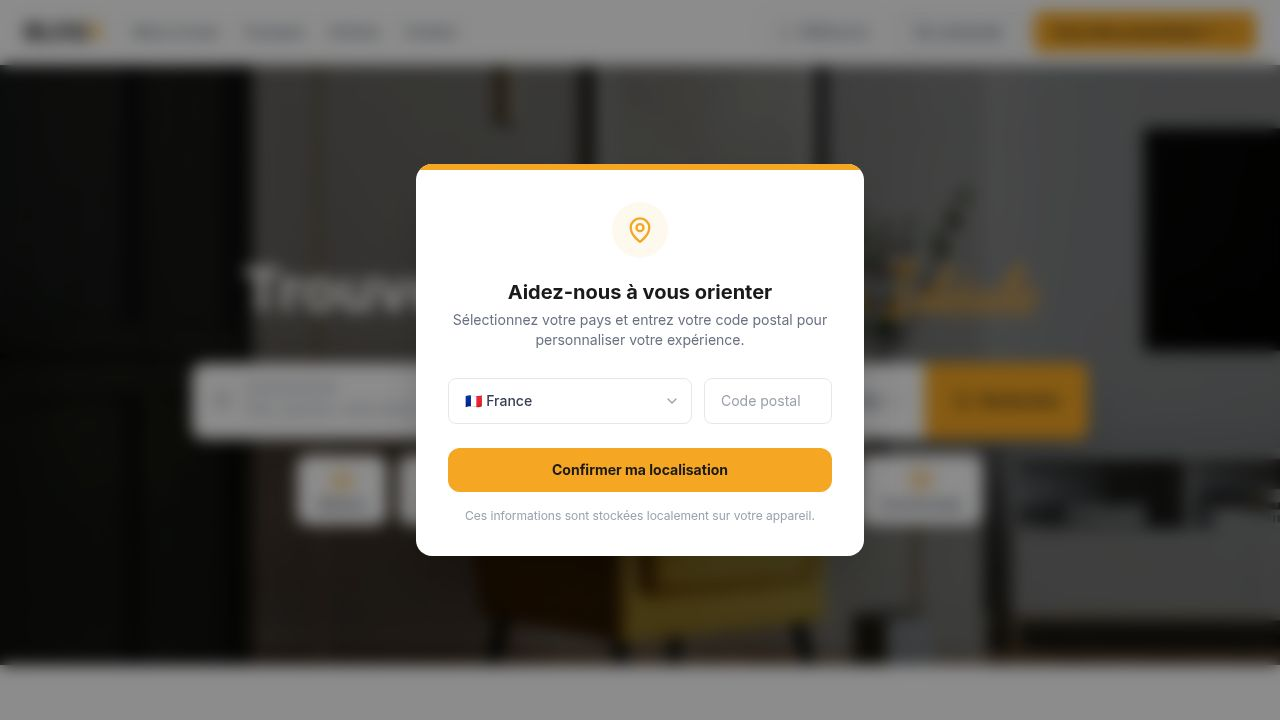
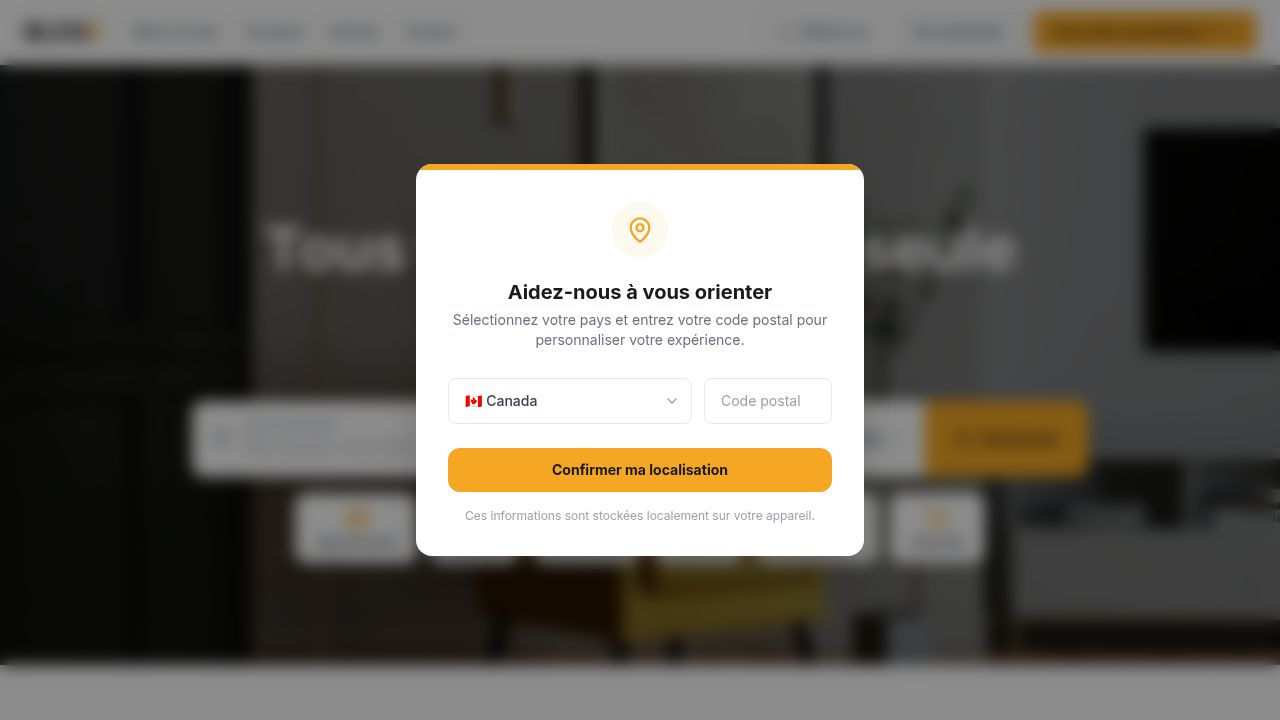
Update property listings and descriptions to include industrial spaces
Adjusts property types, descriptions, and pricing in home and properties pages to accommodate industrial listings, enhancing platform relevance for real estate management.

Replit-Commit-Author: Agent
Replit-Commit-Session-Id: 8a6be745-43e4-43f6-b475-57bb0976353f
Replit-Commit-Checkpoint-Type: full_checkpoint
Replit-Commit-Event-Id: eca5a1d6-f8a7-4e6f-85c0-c1a37d17f996
Replit-Commit-Screenshot-Url: https://storage.googleapis.com/screenshot-production-us-central1/71b2e12b-bec2-4e35-a5ab-8f3f888a31c1/8a6be745-43e4-43f6-b475-57bb0976353f/4jx9YAq
Replit-Helium-Checkpoint-Created: true

Changed region(s): [[0.125, 0.4889, 0.875, 0.7944], [0.1875, 0.3056, 0.3438, 0.4583], [0.6562, 0.3056, 0.8125, 0.4583]]

diff --git a/artifacts/bloq5/src/pages/home.tsx b/artifacts/bloq5/src/pages/home.tsx
@@ -7,7 +7,7 @@ import {
   CheckCircle, FileText, PenLine, ClipboardList, ChevronRight,
   SlidersHorizontal, Home, Building2, Users, Briefcase, Store,
   X, Wifi, Zap, Flame, Droplets, Wind, Car, PawPrint,
-  LayoutGrid, ChevronUp
+  LayoutGrid, ChevronUp, Factory
 } from "lucide-react";
 
 const YELLOW = "#F5A623";
@@ -32,44 +32,44 @@ type StaticProp = { title: string; city: string; price: number; bedrooms: number
 
 const STATIC_PROPS_MAP: Record<string, StaticProp[]> = {
   FR: [
-    { title: "Maison familiale – 5 pièces",        city: "Bordeaux",    price: 2100, bedrooms: 4, bathrooms: 2, area: 140, img: "https://images.unsplash.com/photo-1564013799919-ab600027ffc6?w=500&q=80" },
-    { title: "Appartement lumineux – centre-ville", city: "Lyon",        price: 1200, bedrooms: 2, bathrooms: 1, area: 65,  img: "https://images.unsplash.com/photo-1502672260266-1c1ef2d93688?w=500&q=80" },
-    { title: "Studio meublé – proche campus",       city: "Toulouse",    price: 580,  bedrooms: 1, bathrooms: 1, area: 24,  img: "https://images.unsplash.com/photo-1522708323590-d24dbb6b0267?w=500&q=80" },
-    { title: "Colocation – chambre privée",         city: "Paris 11e",   price: 750,  bedrooms: 1, bathrooms: 1, area: 18,  img: "https://images.unsplash.com/photo-1484101403633-562f891dc89a?w=500&q=80" },
-    { title: "Bureau open-space – La Défense",      city: "La Défense",  price: 4500, bedrooms: 0, bathrooms: 2, area: 200, img: "https://images.unsplash.com/photo-1497366216548-37526070297c?w=500&q=80" },
-    { title: "Local commercial – rez-de-chaussée",  city: "Nice",        price: 1800, bedrooms: 0, bathrooms: 1, area: 80,  img: "https://images.unsplash.com/photo-1441986300917-64674bd600d8?w=500&q=80" },
+    { title: "Appartement T3 – centre historique",  city: "Lyon",        price: 1350, bedrooms: 2, bathrooms: 1, area: 68,  img: "https://images.unsplash.com/photo-1502672260266-1c1ef2d93688?w=500&q=80" },
+    { title: "Maison individuelle – jardin privé",  city: "Bordeaux",    price: 2200, bedrooms: 4, bathrooms: 2, area: 145, img: "https://images.unsplash.com/photo-1564013799919-ab600027ffc6?w=500&q=80" },
+    { title: "Bureau clé en main – 12 postes",      city: "Paris",       price: 5200, bedrooms: 0, bathrooms: 2, area: 210, img: "https://images.unsplash.com/photo-1497366216548-37526070297c?w=500&q=80" },
+    { title: "Local commercial – pied d'immeuble",  city: "Toulouse",    price: 1900, bedrooms: 0, bathrooms: 1, area: 85,  img: "https://images.unsplash.com/photo-1441986300917-64674bd600d8?w=500&q=80" },
+    { title: "Entrepôt logistique – accès A62",     city: "Bordeaux",    price: 3800, bedrooms: 0, bathrooms: 2, area: 600, img: "https://images.unsplash.com/photo-1586528116311-ad8dd3c8310d?w=500&q=80" },
+    { title: "Colocation – 4 chambres meublées",    city: "Nice",        price: 680,  bedrooms: 1, bathrooms: 1, area: 22,  img: "https://images.unsplash.com/photo-1484101403633-562f891dc89a?w=500&q=80" },
   ],
   CA: [
-    { title: "Condo moderne – Plateau Mont-Royal",  city: "Montréal",    price: 2400, bedrooms: 2, bathrooms: 1, area: 70,  img: "https://images.unsplash.com/photo-1502672260266-1c1ef2d93688?w=500&q=80" },
-    { title: "Maison jumelée – banlieue sud",       city: "Toronto",     price: 3800, bedrooms: 3, bathrooms: 2, area: 120, img: "https://images.unsplash.com/photo-1564013799919-ab600027ffc6?w=500&q=80" },
-    { title: "Studio meublé – Vieux-Québec",        city: "Québec",      price: 1100, bedrooms: 1, bathrooms: 1, area: 32,  img: "https://images.unsplash.com/photo-1522708323590-d24dbb6b0267?w=500&q=80" },
-    { title: "Colocation – chambre privée",         city: "Montréal",    price: 980,  bedrooms: 1, bathrooms: 1, area: 20,  img: "https://images.unsplash.com/photo-1484101403633-562f891dc89a?w=500&q=80" },
-    { title: "Bureau open-space – Downtown",        city: "Vancouver",   price: 6500, bedrooms: 0, bathrooms: 2, area: 200, img: "https://images.unsplash.com/photo-1497366216548-37526070297c?w=500&q=80" },
-    { title: "Local commercial – avenue principale",city: "Calgary",     price: 2800, bedrooms: 0, bathrooms: 1, area: 90,  img: "https://images.unsplash.com/photo-1441986300917-64674bd600d8?w=500&q=80" },
+    { title: "Appartement 4½ – Plateau Mont-Royal", city: "Montréal",    price: 2100, bedrooms: 2, bathrooms: 1, area: 72,  img: "https://images.unsplash.com/photo-1502672260266-1c1ef2d93688?w=500&q=80" },
+    { title: "Maison unifamiliale – banlieue sud",  city: "Toronto",     price: 3900, bedrooms: 4, bathrooms: 2, area: 180, img: "https://images.unsplash.com/photo-1564013799919-ab600027ffc6?w=500&q=80" },
+    { title: "Bureau moderne – Downtown core",      city: "Vancouver",   price: 7200, bedrooms: 0, bathrooms: 2, area: 240, img: "https://images.unsplash.com/photo-1497366216548-37526070297c?w=500&q=80" },
+    { title: "Local commercial – rue Sainte-Cath.", city: "Montréal",    price: 3200, bedrooms: 0, bathrooms: 1, area: 110, img: "https://images.unsplash.com/photo-1441986300917-64674bd600d8?w=500&q=80" },
+    { title: "Entrepôt industriel – zone logistique",city: "Calgary",    price: 5500, bedrooms: 0, bathrooms: 2, area: 850, img: "https://images.unsplash.com/photo-1586528116311-ad8dd3c8310d?w=500&q=80" },
+    { title: "Colocation – chambre privée meublée", city: "Québec",      price: 950,  bedrooms: 1, bathrooms: 1, area: 20,  img: "https://images.unsplash.com/photo-1484101403633-562f891dc89a?w=500&q=80" },
   ],
 };
 
 type Article = { category: string; title: string; img: string };
 const ARTICLES_MAP: Record<string, Article[]> = {
   FR: [
-    { category: "Guide locataire", title: "Comment préparer un dossier de location solide ?",     img: "https://images.unsplash.com/photo-1450101499163-c8848c66ca85?w=500&q=80" },
-    { category: "Marché",          title: "Baromètre des loyers en France – 2025",                 img: "https://images.unsplash.com/photo-1551288049-bebda4e38f71?w=500&q=80" },
-    { category: "City Guide",      title: "Les meilleurs quartiers pour vivre à Lyon",             img: "https://images.unsplash.com/photo-1569949261756-48d5e02a9e8b?w=500&q=80" },
+    { category: "Guide propriétaire", title: "Gestion locative : comment déléguer efficacement ?",  img: "https://images.unsplash.com/photo-1450101499163-c8848c66ca85?w=500&q=80" },
+    { category: "Marché commercial",  title: "Louer un local commercial : les clauses à connaître", img: "https://images.unsplash.com/photo-1497366216548-37526070297c?w=500&q=80" },
+    { category: "Immobilier industriel", title: "Entrepôts et ateliers : le marché locatif en 2025", img: "https://images.unsplash.com/photo-1586528116311-ad8dd3c8310d?w=500&q=80" },
   ],
   CA: [
-    { category: "Guide locataire", title: "Comment préparer un dossier de location solide ?",     img: "https://images.unsplash.com/photo-1450101499163-c8848c66ca85?w=500&q=80" },
-    { category: "Marché",          title: "Baromètre des loyers au Canada – 2025",                 img: "https://images.unsplash.com/photo-1551288049-bebda4e38f71?w=500&q=80" },
-    { category: "City Guide",      title: "Les meilleurs quartiers pour vivre à Montréal",         img: "https://images.unsplash.com/photo-1569949261756-48d5e02a9e8b?w=500&q=80" },
+    { category: "Guide propriétaire", title: "Gestion locative au Canada : déléguer en toute sérénité", img: "https://images.unsplash.com/photo-1450101499163-c8848c66ca85?w=500&q=80" },
+    { category: "Marché commercial",  title: "Bail commercial au Québec : ce que tout propriétaire doit savoir", img: "https://images.unsplash.com/photo-1497366216548-37526070297c?w=500&q=80" },
+    { category: "Industriel & Logistique", title: "Espaces industriels au Canada : tendances et opportunités 2025", img: "https://images.unsplash.com/photo-1586528116311-ad8dd3c8310d?w=500&q=80" },
   ],
 };
 
 const CATEGORIES = [
-  { icon: Home,      label: "Maisons",      type: "house" },
   { icon: Building2, label: "Appartements", type: "apartment" },
-  { icon: LayoutGrid,label: "Condos",       type: "condo" },
+  { icon: Home,      label: "Maisons",      type: "house" },
   { icon: Users,     label: "Colocations",  type: "co-living" },
   { icon: Briefcase, label: "Bureaux",      type: "office" },
   { icon: Store,     label: "Commerciales", type: "commercial" },
+  { icon: Factory,   label: "Industriel",   type: "industrial" },
 ];
 
 /* ── Pill selector helper ── */
@@ -228,13 +228,13 @@ export default function HomePage() {
           {/* Badge */}
           <p className="text-white/80 text-sm font-medium mb-5">
             <span style={{ color: YELLOW }} className="mr-1 text-base">✳</span>
-            BLOQ5 — la location simplifiée pour tous
+            BLOQ5 — La gestion immobilière locative, simplifiée
           </p>
 
           {/* Title */}
           <h1 className="text-4xl md:text-5xl lg:text-6xl font-extrabold text-white leading-tight mb-8">
-            Trouvez votre{" "}
-            <span className="script-yellow" style={{ fontSize: "1.1em" }}>Location Idéale</span>
+            Tous vos biens, une seule{" "}
+            <span className="script-yellow" style={{ fontSize: "1.1em" }}>Plateforme</span>
           </h1>
 
           {/* ── Search bar ── */}
@@ -449,7 +449,7 @@ export default function HomePage() {
               Nos derniers biens à{" "}
               <span className="script-yellow">louer</span>
             </h2>
-            <p className="text-gray-500 text-sm mt-1">Maisons, appartements, condos, colocations — découvrez nos annonces vérifiées.</p>
+            <p className="text-gray-500 text-sm mt-1">Appartements, maisons, bureaux, locaux commerciaux et espaces industriels — des biens gérés et vérifiés par BLOQ5.</p>
           </div>
 
           <div className="grid grid-cols-1 md:grid-cols-3 gap-5 mt-8">
@@ -496,15 +496,15 @@ export default function HomePage() {
             <div className="md:w-1/3 mb-8 md:mb-0">
               <h2 className="text-2xl font-bold mb-3" style={{ color: "#1A1A1A" }}>Comment ça marche ?</h2>
               <p className="text-gray-500 text-sm leading-relaxed">
-                BLOQ5 simplifie chaque étape de votre location — de la recherche à la signature, tout se fait en ligne.
+                BLOQ5 gère l'ensemble du cycle locatif pour tout type de bien — résidentiel, commercial ou industriel. Propriétaires et locataires, tout se fait en ligne.
               </p>
             </div>
             <div className="md:w-2/3 grid grid-cols-1 sm:grid-cols-2 gap-6">
               {[
-                { icon: Search,      color: "#E3F2FD", iconColor: "#1565C0", step: "Je sélectionne mon bien",      desc: "Parcourez des milliers d'annonces vérifiées : maisons, appartements, condos, bureaux et plus." },
-                { icon: FileText,    color: "#FFF3E0", iconColor: "#E65100", step: "Je dépose mon dossier",        desc: "Envoyez votre dossier locataire en quelques minutes, directement depuis l'application." },
-                { icon: PenLine,     color: "#E8F5E9", iconColor: "#2E7D32", step: "Je signe mes documents",      desc: "Signature électronique sécurisée de votre bail, quittance et état des lieux." },
-                { icon: ClipboardList, color: "#F3E5F5", iconColor: "#6A1B9A", step: "J'emménage sereinement",   desc: "BLOQ5 réalise l'état des lieux avec vous et assure le suivi tout au long de votre bail." },
+                { icon: Search,        color: "#E3F2FD", iconColor: "#1565C0", step: "Trouvez le bien adapté",      desc: "Appartements, maisons, bureaux, locaux commerciaux ou entrepôts industriels — filtrez par type, superficie et loyer." },
+                { icon: FileText,      color: "#FFF3E0", iconColor: "#E65100", step: "Déposez votre dossier",       desc: "Dossier locataire ou bail commercial en quelques minutes, directement depuis l'application." },
+                { icon: PenLine,       color: "#E8F5E9", iconColor: "#2E7D32", step: "Signez vos documents",        desc: "Signature électronique sécurisée : bail résidentiel, bail commercial, état des lieux et quittances." },
+                { icon: ClipboardList, color: "#F3E5F5", iconColor: "#6A1B9A", step: "BLOQ5 gère pour vous",        desc: "Suivi des paiements, gestion des incidents, renouvellement de bail — nous nous occupons de tout." },
               ].map((s, i) => (
                 <div key={i} className="flex gap-4 bg-white rounded-xl p-5 shadow-sm">
                   <div className="flex-shrink-0 w-10 h-10 rounded-full flex items-center justify-center" style={{ background: s.color }}>
@@ -557,12 +557,12 @@ export default function HomePage() {
         <div className="max-w-7xl mx-auto px-6 grid grid-cols-1 md:grid-cols-2 gap-6">
           <div className="rounded-2xl p-8 flex flex-col" style={{ background: "#FEF9EE" }}>
             <div className="text-xs font-bold uppercase tracking-widest mb-2" style={{ color: YELLOW }}>✳ BLOQ5 Locataire</div>
-            <h3 className="text-xl font-bold mb-2" style={{ color: "#1A1A1A" }}>Trouvez votre logement idéal en quelques clics.</h3>
+            <h3 className="text-xl font-bold mb-2" style={{ color: "#1A1A1A" }}>Trouvez le bien qui correspond à votre activité.</h3>
             <p className="text-sm text-gray-500 mb-5">
-              Maison, appartement, condo ou colocation — accédez à des milliers d'annonces vérifiées et postulez en ligne sans paperasse.
+              Appartement, maison, bureau, local commercial ou espace industriel — accédez à des milliers d'annonces vérifiées et postulez en ligne sans paperasse.
             </p>
             <ul className="space-y-2 mb-7">
-              {["Annonces vérifiées et à jour", "Dossier locataire en ligne", "Visite virtuelle disponible"].map((txt) => (
+              {["Résidentiel, commercial et industriel", "Dossier locataire ou bail commercial en ligne", "Visite virtuelle et signature électronique"].map((txt) => (
                 <li key={txt} className="flex items-center gap-2 text-sm text-gray-700">
                   <CheckCircle className="w-4 h-4 flex-shrink-0" style={{ color: "#22C55E" }} />
                   {txt}
@@ -576,10 +576,10 @@ export default function HomePage() {
             <div className="text-xs font-bold uppercase tracking-widest mb-2" style={{ color: "#7a4a00" }}>✳ BLOQ5 Propriétaire</div>
             <h3 className="text-xl font-bold mb-2 text-white">Publiez votre annonce et gérez votre bien sans effort.</h3>
             <p className="text-sm text-white/80 mb-5">
-              Confiez la gestion locative de votre bien à BLOQ5 : mise en location rapide, locataires sélectionnés, suivi en temps réel.
+              Appartement, maison, bureau, local commercial ou entrepôt — confiez la gestion locative de tous vos biens à BLOQ5 : mise en location rapide, locataires qualifiés, suivi en temps réel.
             </p>
             <ul className="space-y-2 mb-7">
-              {["Annonce mise en ligne sous 24h", "Sélection rigoureuse des locataires", "Gestion complète, zéro stress"].map((txt) => (
+              {["Tous types de biens : résidentiel, commercial, industriel", "Bail résidentiel ou commercial rédigé et signé en ligne", "Gestion complète, tableaux de bord en temps réel"].map((txt) => (
                 <li key={txt} className="flex items-center gap-2 text-sm text-white">
                   <CheckCircle className="w-4 h-4 flex-shrink-0 text-white" />
                   {txt}
@@ -600,7 +600,7 @@ export default function HomePage() {
             <div className="md:w-1/2 mb-8 md:mb-0">
               <h2 className="text-xl font-bold mb-2" style={{ color: "#1A1A1A" }}>BLOQ5 bien entourée</h2>
               <p className="text-sm text-gray-500 mb-5 leading-relaxed">
-                Soutenu par la Banque Publique d'Investissement et labellisé French Tech, BLOQ5 innove pour rendre la location immobilière plus simple, transparente et accessible à tous.
+                Reconnu parmi les plateformes PropTech les plus innovantes au Canada, BLOQ5 simplifie la gestion locative de tous types de biens — appartements, maisons, bureaux, locaux commerciaux et espaces industriels — pour les propriétaires et les locataires.
               </p>
               <button className="btn-outline-dark text-sm px-6 py-2.5">En savoir +</button>
             </div>
@@ -627,7 +627,7 @@ export default function HomePage() {
             </div>
             <button className="btn-yellow text-sm px-5 py-2">Tous les articles</button>
           </div>
-          <p className="text-sm text-gray-500 mb-8">Conseils, guides, tendances — tout pour réussir votre location.</p>
+          <p className="text-sm text-gray-500 mb-8">Conseils, guides et tendances pour propriétaires et locataires — résidentiel, commercial et industriel.</p>
           <div className="grid grid-cols-1 md:grid-cols-3 gap-6">
             {ARTICLES.map((a, i) => (
               <div key={i} className="bg-white rounded-xl overflow-hidden border border-gray-100 shadow-sm hover:shadow-md transition-shadow cursor-pointer group">
@@ -653,12 +653,12 @@ export default function HomePage() {
           <div className="grid grid-cols-1 md:grid-cols-4 gap-10 mb-12">
             <div>
               <div className="text-2xl font-black text-white mb-2">BLOQ<span style={{ color: YELLOW }}>5</span></div>
-              <p className="text-xs text-gray-500 leading-relaxed mb-4">La location simplifiée pour tous.<br />Carte professionnelle : n°CIN 4567 219-005-539-504</p>
+              <p className="text-xs text-gray-500 leading-relaxed mb-4">La plateforme de gestion immobilière locative — résidentiel, commercial et industriel.<br />Carte professionnelle : n°CIN 4567 219-005-539-504</p>
             </div>
             <div>
               <h4 className="text-white font-semibold text-sm mb-4">Nos services</h4>
               <ul className="space-y-2 text-xs text-gray-500">
-                {["Gestion locative", "Estimation en ligne", "Location longue durée", "Location courte durée", "BLOQ5 Pro", "Tarifs"].map(l => (
+                {["Gestion locative résidentielle", "Gestion locative commerciale", "Espaces industriels & logistique", "Location longue durée", "BLOQ5 Pro", "Tarifs"].map(l => (
                   <li key={l}><a href="#" className="hover:text-white transition-colors">{l}</a></li>
                 ))}
               </ul>

diff --git a/artifacts/bloq5/src/pages/properties.tsx b/artifacts/bloq5/src/pages/properties.tsx
@@ -77,19 +77,19 @@ function BuildingIllustration() {
 }
 
 /* ── Static fallback cards ── */
-const TYPES = ["Appartement Studio", "Maison 4 pièces", "Appartement 2 pièces", "Studio meublé", "Appartement 3 pièces", "Chambre en colocation", "Appartement F3", "Bureau open-space", "Local commercial", "Appartement duplex", "Studio cosy"];
-const AREAS = [22, 110, 55, 20, 72, 15, 68, 120, 85, 90, 19, 48];
-const ROOMS = [1, 4, 2, 1, 3, 1, 3, 1, 1, 4, 1, 2];
-const BATHS = [1, 2, 1, 1, 1, 1, 1, 2, 1, 2, 1, 1];
+const TYPES = ["Appartement 4½", "Maison unifamiliale", "Appartement 3½", "Appartement meublé", "Appartement 5½", "Chambre en colocation", "Bureau open-space", "Local commercial – rez-de-chaussée", "Entrepôt industriel", "Appartement 2 chambres", "Local d'activité mixte", "Bureau cloisonné"];
+const AREAS = [72, 185, 55, 48, 105, 20, 210, 120, 850, 68, 380, 145];
+const ROOMS = [2, 4, 1, 1, 3, 1, 0, 0, 0, 2, 0, 0];
+const BATHS = [1, 2, 1, 1, 2, 1, 2, 1, 2, 1, 2, 2];
 
 /* Country-aware prices and neighborhoods */
 const PRICES_MAP: Record<string, number[]> = {
-  FR: [750, 2100, 1150, 620, 1380, 490, 1250, 3500, 1800, 1900, 680, 920],
-  CA: [1200, 3500, 1800, 950, 2200, 780, 2000, 5500, 2800, 3200, 1100, 1500],
+  FR: [1100, 2800, 850, 690, 1650, 520, 4200, 2400, 6800, 1300, 5500, 3800],
+  CA: [1800, 4200, 1350, 1050, 2600, 850, 6500, 3800, 9500, 2100, 8200, 5800],
 };
 const NEIGHBORHOODS_MAP: Record<string, string[]> = {
-  FR: ["Paris 11ème", "Paris 16ème", "Paris 5ème", "Paris 14ème", "Paris 7ème", "Paris 18ème", "Paris 3ème", "La Défense", "Paris 12ème", "Paris 8ème", "Paris 13ème", "Paris 9ème"],
-  CA: ["Plateau Mont-Royal", "Rosemont", "Verdun", "Côte-des-Neiges", "Villeray", "Outremont", "Griffintown", "Mile-End", "Saint-Laurent", "Laval", "Longueuil", "Westmount"],
+  FR: ["Plateau historique", "Banlieue résidentielle", "Quartier étudiant", "Centre-ville", "Quartier familial", "Campus universitaire", "Quartier d'affaires", "Artère commerciale", "Zone industrielle Est", "Quartier mixte", "Parc d'activités", "Tour de bureaux"],
+  CA: ["Plateau Mont-Royal", "Banlieue de Toronto", "Côte-des-Neiges", "Centre-ville Montréal", "Quartier familial", "Vieux-Québec", "Downtown Vancouver", "Rue Sainte-Catherine", "Zone industrielle Saint-Laurent", "Quartier mixte Griffintown", "Parc industriel de Calgary", "Tour de bureaux Downtown"],
 };
 const NEARBY_REGIONS_MAP: Record<string, string[]> = {
   FR: ["Locations Hauts-de-Seine (92)", "Locations Seine-Saint-Denis (93)", "Locations Val-de-Marne (94)"],